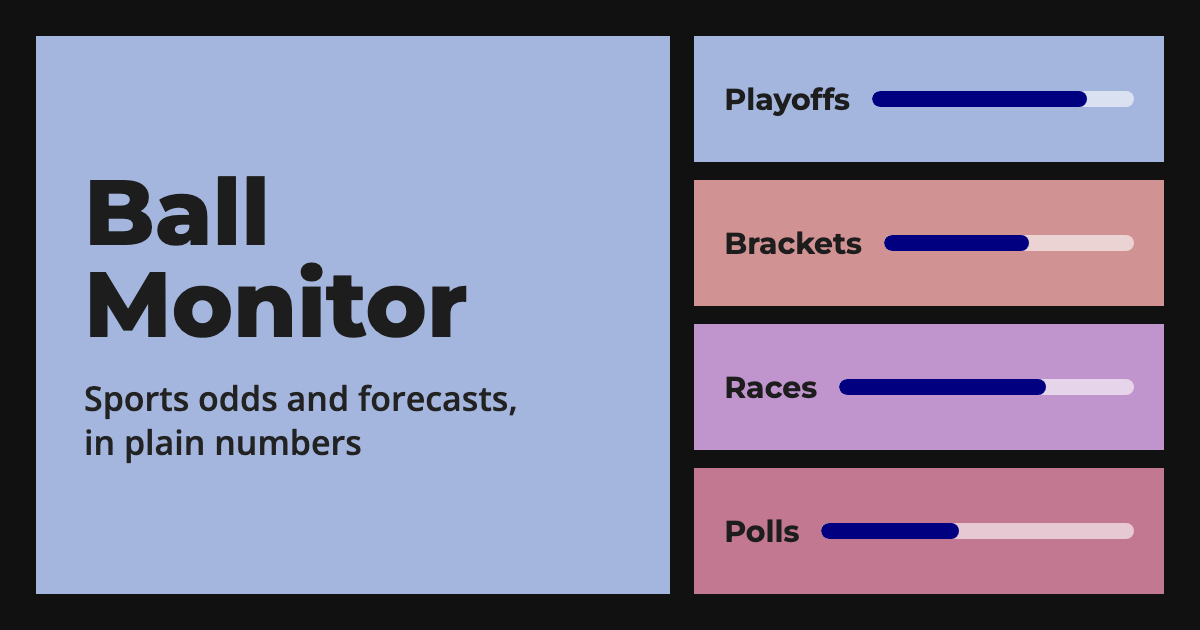
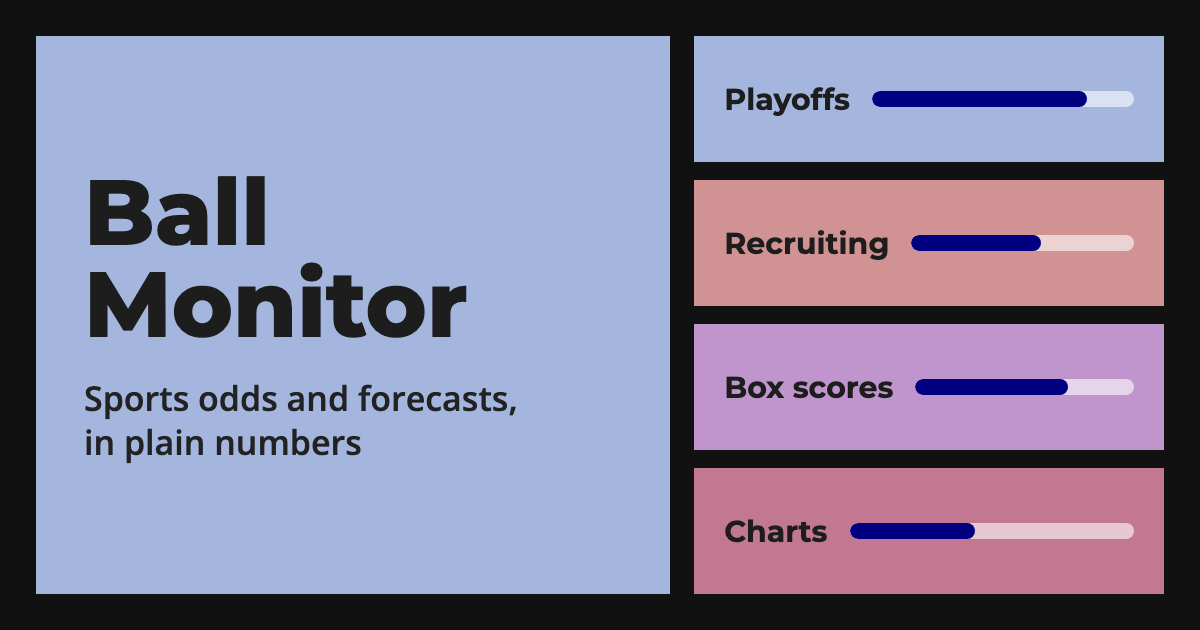
Launch set: keep only the best pages, archive the rest
On the site: college football bowl projections and recruiting rankings,
the batting / pitching / QB game tables, the baseball charts and the
three games (Triple Play, Lineup, 27K).

Archived with no mention on the site ([web] public = false; code, page
files and tests kept): race_time, college_diamond (college baseball and
softball), ranked_choice and the five progress pages.

- Home description, About, Terms and privacy text no longer mention
  them; share card re-rendered (Playoffs, Recruiting, Box scores,
  Charts); the editor's blurb updated.
- The build publishes only the static/apps/*.js the built pages use
  (site.json assets and the copied files).
- Tests: redirect checks made generic; new test that an off-site model
  leaves no page, sitemap entry, app or index entry.

diff --git a/ballmonitor/web/site/privacy/index.html b/ballmonitor/web/site/privacy/index.html
@@ -64,7 +64,7 @@
       <section class="ss-cell ss-p1 text-page">
         <h1 class="ss-title">Privacy</h1>
         <!-- claude-ui:begin privacy -->
-        <p class="small"><i>Last updated: November 19, 2026</i></p>
+        <p class="small"><i>Last updated: November 20, 2026</i></p>
         <p>Ball Monitor has no accounts, no sign-up, no cookies, no ads and no analytics or tracking. We don't collect or sell personal information.</p>
 
         <h2>What your browser sends, and to whom</h2>
@@ -72,13 +72,12 @@
         <ul>
           <li><b>GitHub Pages</b> hosts the site and may keep standard server logs.</li>
           <li><b>data.tabdn.com</b> answers the live data tables (only on those pages): your filters and sorts are sent to it to fetch the matching rows.</li>
-          <li><b>lichess.org</b> is contacted only if you press "Fill from my Lichess account" on the Lichess rating page: your browser asks lichess.org for that username's public profile, rating stats and recent rated games. Nothing else is sent, and we never see it.</li>
-<li><b>jsDelivr</b> supplies Python for the baseball charts, the first time you draw one. The formulas you type there are not sent anywhere; the chart is drawn in your browser.</li>
+          <li><b>jsDelivr</b> supplies Python for the baseball charts, the first time you draw one. The formulas you type there are not sent anywhere; the chart is drawn in your browser.</li>
         </ul>
         <p>Each of these services handles that information under its own privacy policy.</p>
 
         <h2>What is kept on your device</h2>
-        <p>A few things are saved in your browser's own storage so they are still there next time: which table columns you show, your puzzle and game progress (Triple Play, Lineup, 27K), and any log you keep on the progress pages (the progress tracker, Lichess ratings, runs, workouts, weigh-ins) with the settings you typed there. They never leave your device: the predictions are worked out in your browser, and a file you import is read in your browser, not uploaded. Each log page has a "Clear my log" button, and clearing your browser's site data removes everything.</p>
+        <p>A few choices are saved in your browser's own storage so they are still there next time: which table columns you show, and your puzzle and game progress (Triple Play, Lineup, 27K). They never leave your device, and clearing your browser's site data removes them.</p>
 
         <h2>Changes</h2>
         <p>If this changes (for example, if we add visitor counts), we'll update this page and the date above.</p>

diff --git a/ballmonitor/web/site/about/index.html b/ballmonitor/web/site/about/index.html
@@ -64,7 +64,7 @@
       <section class="ss-cell ss-p1 text-page">
         <h1 class="ss-title">About Ball Monitor</h1>
         <!-- claude-ui:begin about -->
-        <p>Ball Monitor turns sports data into plain tables and charts: college football playoff and bowl chances, recruiting rankings, college baseball and softball tournament odds, race-time predictions, and polls and awards re-counted with other voting methods. There are also a few daily baseball puzzles.</p>
+        <p>Ball Monitor turns sports data into plain tables and charts: college football playoff and bowl chances, recruiting rankings, game-by-game batting, pitching and quarterback tables, and baseball charts you can draw with your own formulas. There are also three baseball games: Triple Play, Lineup and 27K.</p>
 
         <h2>How the numbers are made</h2>
         <p>Every forecast comes from a small, open model: a few formulas and settings you can read and change. Each page ends with "How this works" in a few sentences, and links to the full method, every setting and its source, and the model's known weaknesses.</p>
@@ -74,8 +74,7 @@
         <p>Some of the main sources:</p>
         <ul>
           <li>College football ratings (FPI) and schedules: ESPN. Recruiting offer lists: On3.</li>
-          <li>AP poll ballots: collegepolltracker.com. Award ballots: the BBWAA, NBA and PHWA.</li>
-          <li>Big-league box scores: Retrosheet. Season statistics: the Lahman Baseball Database (SABR, CC BY-SA 3.0).</li>
+                    <li>Big-league box scores: Retrosheet. Season statistics: the Lahman Baseball Database (SABR, CC BY-SA 3.0).</li>
           <li>NFL quarterback games: nflverse (CC BY 4.0).</li>
         </ul>
         <p>Each page's "How this works" and each data table name their own sources.</p>

diff --git a/ballmonitor/web/site/terms/index.html b/ballmonitor/web/site/terms/index.html
@@ -74,7 +74,7 @@
         <p>The site and its numbers are provided "as is", without any warranty that they are accurate, complete or available. Pages can change or disappear. To the fullest extent the law allows, we aren't liable for any loss from using the site.</p>
 
         <h2>Data and code</h2>
-        <p>The data keeps its sources' terms and licences, named on each page (for example, the Lahman Baseball Database under CC BY-SA 3.0 and nflverse under CC BY 4.0). Team, league and event names belong to their owners; Ball Monitor isn't affiliated with or endorsed by any team, league, conference, poll or race.</p>
+        <p>The data keeps its sources' terms and licences, named on each page (for example, the Lahman Baseball Database under CC BY-SA 3.0 and nflverse under CC BY 4.0). Team, league and event names belong to their owners; Ball Monitor isn't affiliated with or endorsed by any team, league or conference.</p>
 
         <h2>Fair use of the site</h2>
         <p>Please don't overload the site or the live data tables with automated requests.</p>

diff --git a/ballmonitor/web/share-card.html b/ballmonitor/web/share-card.html
@@ -14,7 +14,7 @@ p{font-size:34px;line-height:1.3;margin:0;color:#222;font-weight:600}
 <div class="cell"><h1>Ball<br>Monitor</h1><p>Sports odds and forecasts,<br>in plain numbers</p></div>
 <div class="stack">
 <div class="s" style="background:#a4b6dd">Playoffs<span class="bar"><i style="width:82%"></i></span></div>
-<div class="s" style="background:#d09292">Brackets<span class="bar"><i style="width:58%"></i></span></div>
-<div class="s" style="background:#c094cc">Races<span class="bar"><i style="width:70%"></i></span></div>
-<div class="s" style="background:#c37892">Polls<span class="bar"><i style="width:44%"></i></span></div>
+<div class="s" style="background:#d09292">Recruiting<span class="bar"><i style="width:58%"></i></span></div>
+<div class="s" style="background:#c094cc">Box scores<span class="bar"><i style="width:70%"></i></span></div>
+<div class="s" style="background:#c37892">Charts<span class="bar"><i style="width:44%"></i></span></div>
 </div></div></body></html>

diff --git a/ballmonitor/web/static/index.html b/ballmonitor/web/static/index.html
@@ -39,7 +39,7 @@
         <div class="home-hero-badge" id="home-hero-badge">Sports & Racing Models · Interactive Explorer</div>
         <h1 class="home-hero-title">Transparent Probability Models</h1>
         <p class="home-hero-sub">
-          Explore matchup predictions across college recruiting, postseason bowls, road race times & division podiums, baseball matchups, pitch sequencing, bullpen usage, and cross-sport dominance ratings. Choose any model below to explore results.
+          Explore the models behind the site: college football recruiting and postseason bowls. Choose a model below to see its inputs, settings and results.
         </p>
         <div class="home-category-bar" id="home-category-bar"></div>
         <div class="home-games">

diff --git a/ballmonitor/web/site/index.html b/ballmonitor/web/site/index.html
@@ -4,7 +4,7 @@
   <meta charset="utf-8">
   <meta name="viewport" content="width=device-width, initial-scale=1">
   <title>Ball Monitor</title>
-  <meta name="description" content="Sports odds and forecasts in plain tables and charts: college football playoff chances, polls re-counted, race times, baseball and more. Updated daily.">
+  <meta name="description" content="College football playoff and bowl chances, recruiting rankings, game-by-game batting, pitching and quarterback tables, baseball charts and three baseball games.">
   <link rel="canonical" href="https://ballmonitor.com/">
   <meta property="og:title" content="Ball Monitor">
   <meta property="og:description" content="Sports odds and forecasts in plain tables and charts, updated daily.">

diff --git a/ballmonitor/web/builder.py b/ballmonitor/web/builder.py
@@ -253,11 +253,23 @@ def site_page(name: str) -> dict | None:
 SPLIT_BYTES = 150_000   # a page's JSON above this has its dropdown options' views moved to their own files
 
 
-def app_versions() -> dict[str, str]:
+def app_versions(used: set[str] | None = None) -> dict[str, str]:
     """apps/<name>.js -> content hash: site.js loads an app as /static/apps/<name>.js?v=<hash>, so a
-    new build never runs a browser's cached old copy of a model's formulas."""
+    new build never runs a browser's cached old copy of a model's formulas. `used` (app names) limits
+    it to the apps the built pages show, so an off-site model's tool isn't published."""
     return {f"apps/{f.name}": hashlib.sha1(f.read_bytes()).hexdigest()[:10]
-            for f in sorted((STATIC_DIR / "apps").glob("*.js"))}
+            for f in sorted((STATIC_DIR / "apps").glob("*.js")) if used is None or f.stem in used}
+
+
+def apps_in(views_list: list) -> set[str]:
+    """Names of the views.app tools anywhere in a page's views (inside pickers too)."""
+    found: set[str] = set()
+    for v in views_list:
+        if v.get("kind") == "app":
+            found.add(v["app"])
+        for option in v.get("options", []) if v.get("kind") == "picker" else []:
+            found |= apps_in(option.get("views", []))
+    return found
 
 
 def split_options(page: dict, address: str, out: Path) -> dict:
@@ -299,7 +311,7 @@ def build_views(data_dir: Path, names: list[str], log=print) -> list[str]:
     whose page can't be built must not deploy half-done)."""
     out = data_dir / "views"
     out.mkdir(parents=True, exist_ok=True)
-    index, redirects, failures = [], {}, []
+    index, redirects, failures, used_apps = [], {}, [], set()
     for name in names:
         started = time.perf_counter()
         try:
@@ -309,6 +321,7 @@ def build_views(data_dir: Path, names: list[str], log=print) -> list[str]:
             failures.append(f"{name}/site.py: {type(exc).__name__}: {exc}")
             continue
         for address, p in built.items():
+            used_apps |= apps_in(p["views"])
             text = json.dumps(p, separators=(",", ":"), allow_nan=False)
             if len(text) > SPLIT_BYTES:   # a big page: each dropdown option's tables load when it's picked
                 text = json.dumps(split_options(p, address, out), separators=(",", ":"), allow_nan=False)
@@ -327,7 +340,7 @@ def build_views(data_dir: Path, names: list[str], log=print) -> list[str]:
                                                     "charts": chart_list, "cells": views.SPORT_CELL,
                                                     # the charts page's own words (title, summary) for its home card
                                                     "charts_text": pages.charts_text(),
-                                                    "assets": app_versions()},
+                                                    "assets": app_versions(used_apps)},
                                                    indent=1), encoding="utf-8")
     return failures
 
@@ -437,6 +450,13 @@ def build_static_site(out_dir: Path | str = "dist", models: list[str] | None = N
 
     # 6b. Pre-generated public pages
     failures += build_views(data_dir, target_models, log=log)
+    # only the tools the built pages use are published (an off-site model's app stays in the repo)
+    site_json = data_dir / "site.json"
+    if site_json.exists():
+        published = json.loads(site_json.read_text(encoding="utf-8")).get("assets", {})
+        for app_file in (static_dest / "apps").glob("*.js"):
+            if f"apps/{app_file.name}" not in published:
+                app_file.unlink()
 
     # A page with a missing result is a broken page: fail so CI never deploys it.
     if failures:

diff --git a/tests/test_static_build.py b/tests/test_static_build.py
@@ -79,9 +79,8 @@ def test_public_pages_are_built_and_valid(site):
     georgia = next(o for o in team["options"] if o["slug"] == "georgia")
     assert georgia["views"] == [] and georgia["src"] == "/data/views/ncaaf_bowls/team/georgia.json"
     assert json.loads((site / georgia["src"].lstrip("/")).read_text(encoding="utf-8"))["views"]
-    # baseball and softball are separate pages; the old shared address still leads somewhere
-    assert {"college_baseball", "college_softball"} <= addresses
-    assert index["redirects"]["college_diamond/sport/softball"] == "college_softball"
+    # every old address (a model's REDIRECTS) leads to a page that is on the site
+    # (college_diamond's baseball/softball split is archived since 2026-11-20, so this may be empty)
     assert set(index["redirects"].values()) <= addresses
 
 
@@ -122,9 +121,12 @@ def test_every_address_is_a_real_page_in_the_sitemap(site):
     # a missing option's address (a past poll week) is forwarded to its page by the 404 page
     assert "/data/views/" in (site / "404.html").read_text() and "location.replace" in (site / "404.html").read_text()
     # an old address is a stub that forwards to the new one and isn't indexed
-    old = (site / "college_diamond" / "index.html").read_text()
-    assert "/college_baseball/" in old and 'content="noindex"' in old
-    assert "/college_diamond/" not in sitemap
+    for old_address, new in index["redirects"].items():
+        if "/" in old_address:   # an old option address: forwarded by the 404 page, not a stub
+            continue
+        old = (site / old_address / "index.html").read_text()
+        assert f"/{new}/" in old and 'content="noindex"' in old
+        assert f"/{old_address}/" not in sitemap
 
 
 def test_page_addresses_cannot_take_the_sites_own_folders(site, tmp_path):
@@ -192,3 +194,20 @@ def test_building_again_into_the_same_folder_works(site):
     mistake those pages for chart files the ids clash with."""
     assert (site / "charts").is_dir() and any((site / "charts" / d).is_dir() for d in ("aging-power", "power-average"))
     assert builder.build_pages(site, site / "data")
+
+
+def test_off_site_models_leave_no_trace(site):
+    """A model with [web] public = false (archived) has no page, no sitemap entry, no published app
+    and no home/menu entry (the launch set, 2026-11-20)."""
+    off = [m for m in registry.model_names() if not server.is_public(m)]
+    assert {"race_time", "college_diamond", "ranked_choice", "progress_tracker", "lichess_rating",
+            "running_progress", "strength_progress", "weight_loss"} <= set(off)
+    index = json.loads((site / "data" / "site.json").read_text(encoding="utf-8"))
+    shown = {json.loads((site / "data" / "views" / f"{m['name']}.json").read_text(encoding="utf-8"))["model"]
+             for m in index["models"]}
+    sitemap = (site / "sitemap.xml").read_text()
+    for m in off:
+        assert m not in shown, m
+        assert f"/{m}/" not in sitemap, m
+        assert not (site / "static" / "apps" / f"{m}.js").exists(), m
+        assert f"apps/{m}.js" not in index["assets"], m

diff --git a/CLAUDE.md b/CLAUDE.md
@@ -210,6 +210,13 @@ pytest ballmonitor/models/race_time                # one model
   (2026-11-08, owner's call): the MLB models (`next_pitch`, `bvp_similarity`, `mlb_bullpen`),
   `cfb_replay` (until there's a YouTube Shorts account), `race_podium` and `dad`. The Pitch Guesser
   game is off too (not copied into `dist/`, no links; still at `/game` under `serve`).
+  **Launch set (2026-11-20, owner's call): only the best pages** — `ncaaf_bowls`, `ncaaf_recruiting`,
+  the three data tables (batting, pitching, QB games), the baseball charts and the three games
+  (Triple Play, Lineup, 27K). Archived with no mention on the site (public = false; code, page files,
+  tests kept): `race_time`, `college_diamond` (college baseball/softball), `ranked_choice` and the
+  progress pages (`progress_tracker`, `lichess_rating`, `running_progress`, `strength_progress`,
+  `weight_loss`). The build publishes only the `static/apps/*.js` the built pages use. Bringing a
+  page back: set public = true and restore its mentions (home description, About, Terms, share card).
 - **Live data tables** (`web/tables.toml`, `web/tables.py`): big CSVs served by tabdn table servers
   (tabc/sqldn, ~/Desktop/portfolio/mathzetta/tabdn) get a page at `/tables/<id>/` with a live
   filter/sort table. The data is too big to send to the browser, so the *server* filters
